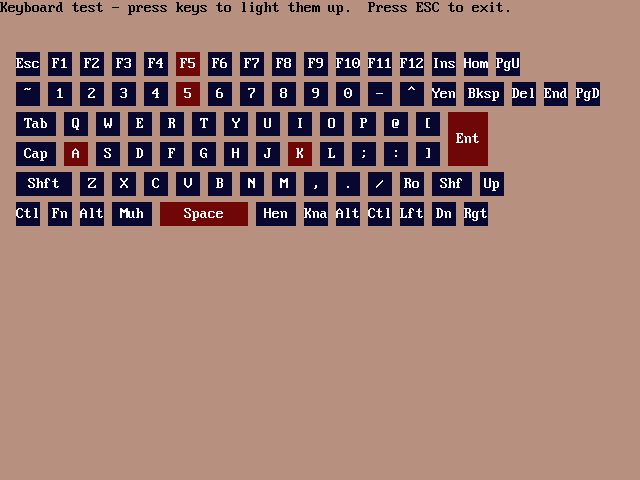
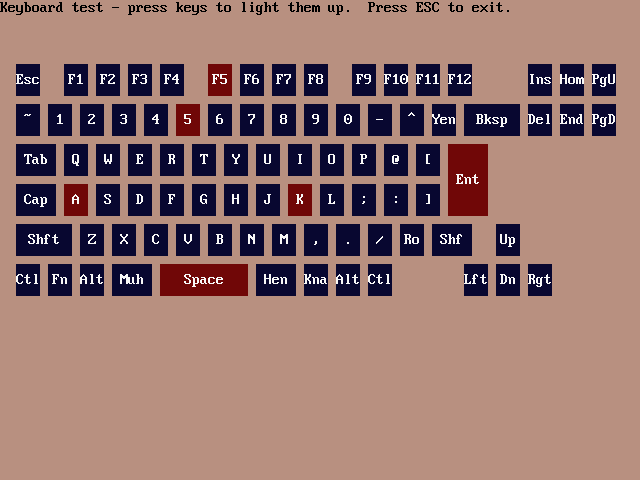
Keyboard test: rework layout to match the real PC110 (v1.6.1)
Grouped function keys (Esc | F1-4 | F5-8 | F9-12), nav block separated on
the right (Ins/Home/PgUp over Del/End/PgDn, aligned), inverted-T arrow
cluster (Up above Down, Left/Right flanking), tall Enter, taller keys.
make_kbd.py gains gap support (G(w)); KB_ROWH 30->40, KB_Y 52->64.

Changed region(s): [[0.0, 0.0938, 0.9688, 0.625]]

diff --git a/tools/make_kbd.py b/tools/make_kbd.py
@@ -9,38 +9,42 @@
 
 KB_U   = 16     # pixels per half-unit  (base key = 2u = 32px cell)
 KB_X   = 16     # left margin (multiple of 8)
-KB_Y   = 52     # top of the keyboard
-KB_ROWH= 30     # row pitch
+KB_Y   = 64     # top of the keyboard
+KB_ROWH= 40     # row pitch (taller keys)
 KB_GAP = 8      # gap so a key fill = w*KB_U - GAP (keeps width a multiple of 8)
 
-# each key: (label, width_units, scancode, ext, height_rows)
+def G(w): return ("", w, 0, 0)     # spacer: advance the column, draw nothing
+
+# each key: (label, width_units, scancode, ext, height_rows=1); G(w) = gap.
+# Laid out like the real PC110: grouped F-keys, a separated nav block on the
+# right (Ins/Home/PgUp over Del/End/PgDn) and an inverted-T arrow cluster.
 rows = [
- # row 0 : Esc, F1..F12, Ins, Home, PgUp
- [("Esc",2,0x01,0),("F1",2,0x3B,0),("F2",2,0x3C,0),("F3",2,0x3D,0),("F4",2,0x3E,0),
-  ("F5",2,0x3F,0),("F6",2,0x40,0),("F7",2,0x41,0),("F8",2,0x42,0),("F9",2,0x43,0),
-  ("F10",2,0x44,0),("F11",2,0x57,0),("F12",2,0x58,0),
-  ("Ins",2,0x52,1),("Hom",2,0x47,1),("PgU",2,0x49,1)],
- # row 1 : hankaku, 1..0, -, ^, Yen, Bksp, Del, End, PgDn
+ # row 0 : Esc | F1-F4 | F5-F8 | F9-F12 |  Ins Home PgUp
+ [("Esc",2,0x01,0), G(1), ("F1",2,0x3B,0),("F2",2,0x3C,0),("F3",2,0x3D,0),("F4",2,0x3E,0),
+  G(1), ("F5",2,0x3F,0),("F6",2,0x40,0),("F7",2,0x41,0),("F8",2,0x42,0),
+  G(1), ("F9",2,0x43,0),("F10",2,0x44,0),("F11",2,0x57,0),("F12",2,0x58,0),
+  G(3), ("Ins",2,0x52,1),("Hom",2,0x47,1),("PgU",2,0x49,1)],
+ # row 1 : hankaku 1..0 - ^ Yen Bksp |  Del End PgDn
  [("~",2,0x29,0),("1",2,0x02,0),("2",2,0x03,0),("3",2,0x04,0),("4",2,0x05,0),
   ("5",2,0x06,0),("6",2,0x07,0),("7",2,0x08,0),("8",2,0x09,0),("9",2,0x0A,0),
-  ("0",2,0x0B,0),("-",2,0x0C,0),("^",2,0x0D,0),("Yen",2,0x7D,0),("Bksp",3,0x0E,0),
+  ("0",2,0x0B,0),("-",2,0x0C,0),("^",2,0x0D,0),("Yen",2,0x7D,0),("Bksp",4,0x0E,0),
   ("Del",2,0x53,1),("End",2,0x4F,1),("PgD",2,0x51,1)],
- # row 2 : Tab, Q..P, @, [, Enter (tall)
+ # row 2 : Tab Q..P @ [  Enter(tall)
  [("Tab",3,0x0F,0),("Q",2,0x10,0),("W",2,0x11,0),("E",2,0x12,0),("R",2,0x13,0),
   ("T",2,0x14,0),("Y",2,0x15,0),("U",2,0x16,0),("I",2,0x17,0),("O",2,0x18,0),
   ("P",2,0x19,0),("@",2,0x1A,0),("[",2,0x1B,0),("Ent",3,0x1C,0,2)],
- # row 3 : Caps, A..L, ;, :, ]
+ # row 3 : Caps A..L ; : ]
  [("Cap",3,0x3A,0),("A",2,0x1E,0),("S",2,0x1F,0),("D",2,0x20,0),("F",2,0x21,0),
   ("G",2,0x22,0),("H",2,0x23,0),("J",2,0x24,0),("K",2,0x25,0),("L",2,0x26,0),
   (";",2,0x27,0),(":",2,0x28,0),("]",2,0x2B,0)],
- # row 4 : Shift, Z..M, comma . / Ro, Shift, Up
+ # row 4 : Shift Z..M , . / Ro Shift |  Up
  [("Shft",4,0x2A,0),("Z",2,0x2C,0),("X",2,0x2D,0),("C",2,0x2E,0),("V",2,0x2F,0),
   ("B",2,0x30,0),("N",2,0x31,0),("M",2,0x32,0),(",",2,0x33,0),(".",2,0x34,0),
-  ("/",2,0x35,0),("Ro",2,0x73,0),("Shf",3,0x36,0),("Up",2,0x48,1)],
- # row 5 : Ctrl Fn Alt Muhenkan Space Henkan Kana Alt Ctrl  Left Down Right
+  ("/",2,0x35,0),("Ro",2,0x73,0),("Shf",3,0x36,0), G(1), ("Up",2,0x48,1)],
+ # row 5 : Ctrl Fn Alt Muh Space Hen Kana Alt Ctrl |  Left Down Right
  [("Ctl",2,0x1D,0),("Fn",2,0x00,0),("Alt",2,0x38,0),("Muh",3,0x7B,0),
   ("Space",6,0x39,0),("Hen",3,0x79,0),("Kna",2,0x70,0),("Alt",2,0x38,1),
-  ("Ctl",2,0x1D,1),("Lft",2,0x4B,1),("Dn",2,0x50,1),("Rgt",2,0x4D,1)],
+  ("Ctl",2,0x1D,1), G(4), ("Lft",2,0x4B,1),("Dn",2,0x50,1),("Rgt",2,0x4D,1)],
 ]
 
 recs=[]
@@ -48,6 +52,9 @@ for r,row in enumerate(rows):
     col=0
     for k in row:
         label,w,sc,ext = k[0],k[1],k[2],k[3]
+        if label == "":            # gap: just advance
+            col += w
+            continue
         h = k[4] if len(k)>4 else 1
         recs.append((r,col,w,h,sc,ext,label))
         col += w